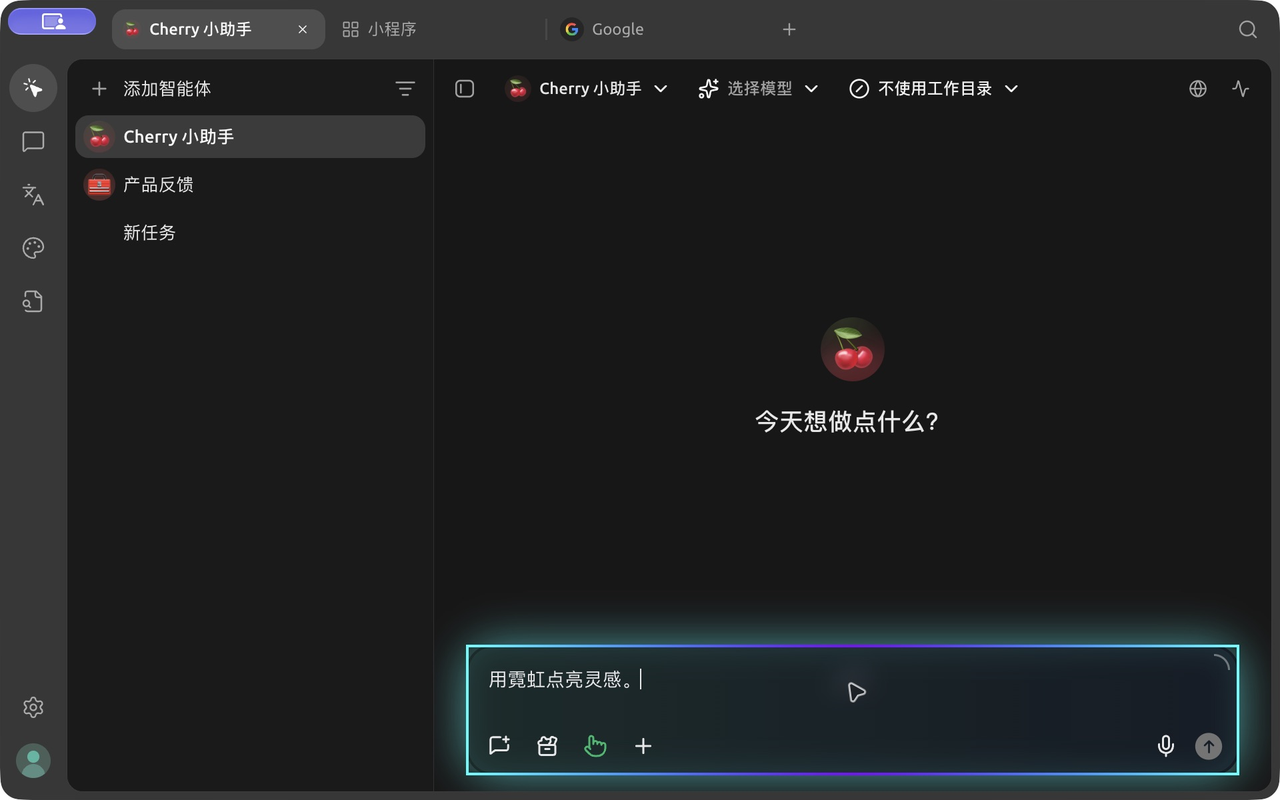
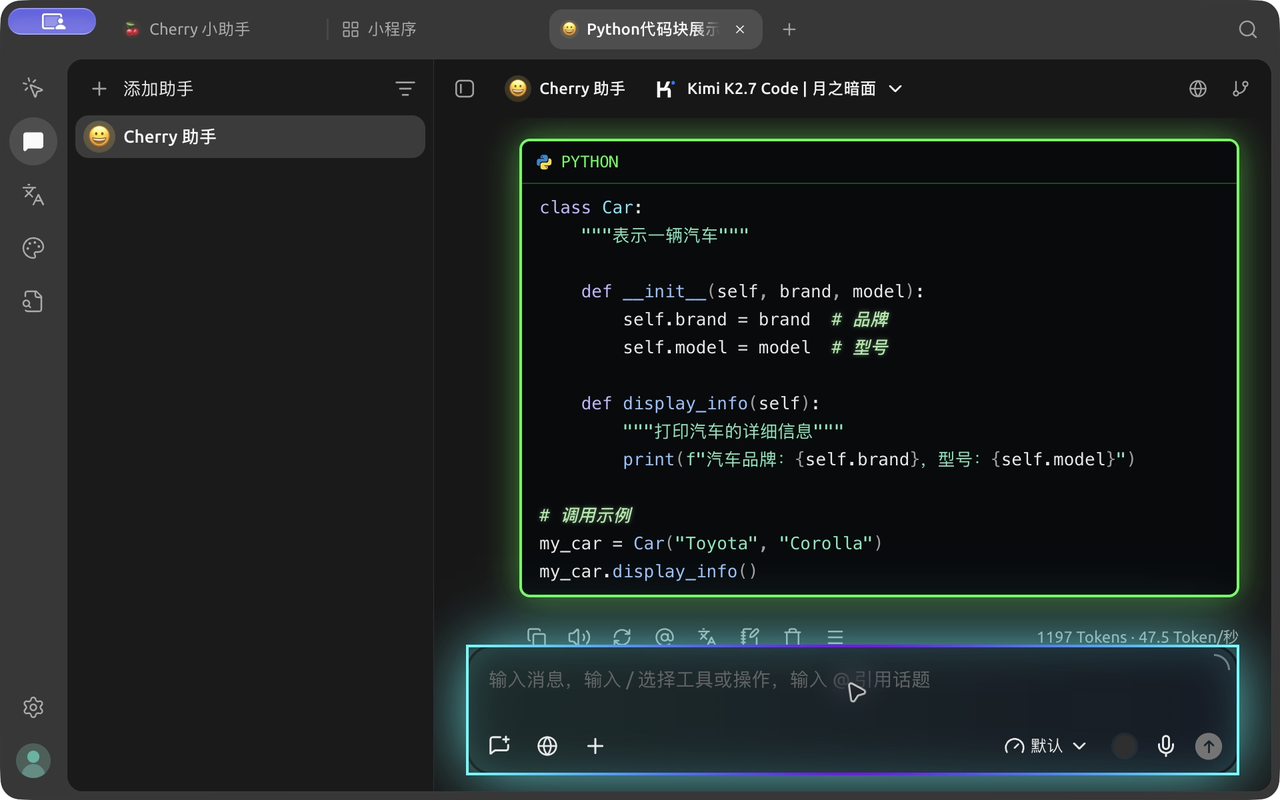
Adapt green terminal styling to Cherry Studio 2.1.10 and record live preview

diff --git a/cyberpunk-theme.css b/cyberpunk-theme.css
@@ -176,63 +176,58 @@ body[theme-mode=dark][os=windows] {
   --color-background-mute: var(--color-black-mute);
 }
 
-/* Code block containers */
-[class*="code-block"], 
+/* Match complete class names: 2.1.10 also has code-block-header and highlights. */
+.code-block,
 .code-container,
-[class*="highlight"] {
+.highlight {
   border: 2px solid var(--cyber-green) !important;
   border-radius: 8px !important;
-  box-shadow: 
-    0 0 20px rgba(0 255 65 / 0.3),
-    inset 0 0 20px rgba(0 255 65 / 0.05) !important;
-  backdrop-filter: blur(10px) !important;
-  position: relative !important;
-  padding: 0 !important;
-  margin: 16px 0 !important;
-  overflow: visible !important;
-  background: transparent !important;
+  background: #080a0d !important;
+  box-shadow: 0 0 20px rgba(0 255 65 / 0.3);
+  animation: code-glow 3s ease-in-out infinite alternate;
 }
 
-/* Code block inner content */
-[class*="code-block"] pre,
-[class*="code-block"] code,
+/* New code viewer uses virtualized divs; preserve its sizing and scrolling. */
+.code-block .code-viewer,
+.code-block .code-block-header {
+  background: #080a0d !important;
+}
+
+.code-block .code-block-header {
+  color: var(--cyber-green) !important;
+  border-bottom: 1px solid rgba(0 255 65 / 0.25) !important;
+}
+
+/* Traditional pre/code renderers: style the surface, not every syntax token. */
+.code-block pre,
 .code-container pre,
-.code-container code,
-[class*="highlight"] pre,
-[class*="highlight"] code,
-[class*="code-block"] [class*="language-"],
-[class*="code-block"] [class*="hljs"],
-.code-container [class*="language-"],
-.code-container [class*="hljs"],
-[class*="highlight"] [class*="language-"],
-[class*="highlight"] [class*="hljs"] {
-  background: linear-gradient(135deg, 
-    rgba(10 10 15 / 0.95) 0%, 
-    rgba(5 5 8 / 0.98) 100%) !important;
+.highlight pre {
+  background: #080a0d !important;
   border: none !important;
-  border-radius: 6px !important;
   box-shadow: none !important;
-  margin: 0 !important;
-  padding: 16px !important;
-  width: 100% !important;
-  box-sizing: border-box !important;
-  position: relative !important;
-  z-index: 1 !important;
+}
+
+.code-block code,
+.code-container code,
+.highlight code {
+  background: transparent !important;
+  border: none !important;
+  padding: 0 !important;
 }
 
 /* Code block action buttons (copy, download, etc.) */
-[class*="code-block"] [class*="copy"],
-[class*="code-block"] [class*="download"],
-[class*="code-block"] [class*="action"],
-[class*="code-block"] button,
+.code-block [class*="copy"],
+.code-block [class*="download"],
+.code-block [class*="action"],
+.code-block button,
 .code-container [class*="copy"],
 .code-container [class*="download"],
 .code-container [class*="action"],
 .code-container button,
-[class*="highlight"] [class*="copy"],
-[class*="highlight"] [class*="download"],
-[class*="highlight"] [class*="action"],
-[class*="highlight"] button {
+.highlight [class*="copy"],
+.highlight [class*="download"],
+.highlight [class*="action"],
+.highlight button {
   position: relative !important;
   z-index: 10 !important;
   background: rgba(0 255 255 / 0.1) !important;
@@ -242,25 +237,26 @@ body[theme-mode=dark][os=windows] {
   transition: all 0.3s ease !important;
 }
 
-[class*="code-block"] [class*="copy"]:hover,
-[class*="code-block"] [class*="download"]:hover,
-[class*="code-block"] [class*="action"]:hover,
-[class*="code-block"] button:hover,
+.code-block [class*="copy"]:hover,
+.code-block [class*="download"]:hover,
+.code-block [class*="action"]:hover,
+.code-block button:hover,
 .code-container [class*="copy"]:hover,
 .code-container [class*="download"]:hover,
 .code-container [class*="action"]:hover,
 .code-container button:hover,
-[class*="highlight"] [class*="copy"]:hover,
-[class*="highlight"] [class*="download"]:hover,
-[class*="highlight"] [class*="action"]:hover,
-[class*="highlight"] button:hover {
+.highlight [class*="copy"]:hover,
+.highlight [class*="download"]:hover,
+.highlight [class*="action"]:hover,
+.highlight button:hover {
   background: rgba(0 255 255 / 0.2) !important;
   box-shadow: 0 0 10px rgba(0 255 255 / 0.5) !important;
 }
 
 /* Code comments with green glow */
 .token.comment,
-[class*="hljs-comment"] {
+.hljs-comment,
+.code-block .code-syntax-comment {
   color: rgba(180 255 180 / 0.9) !important;
   font-style: italic !important;
   text-shadow: 0 0 3px rgba(180 255 180 / 0.4) !important;
@@ -274,12 +270,8 @@ body[theme-mode=dark][os=windows] {
     rgba(138 43 226 / 0.25) 100%) !important;
 }
 
-/* Inline code and syntax highlighting */
-code:not([class*="code-block"] code):not(.code-container code):not([class*="highlight"] code), 
-.token.keyword,
-.token.function,
-.hljs-keyword,
-.hljs-function {
+/* Inline code keeps its badge styling without changing syntax-token spacing. */
+code:not(pre code):not(.code-block code):not(.code-container code):not(.highlight code) {
   background: rgba(30 40 60 / 0.6) !important;
   color: rgba(100 200 255 / 0.95) !important;
   padding: 2px 6px !important;
@@ -287,18 +279,11 @@ code:not([class*="code-block"] code):not(.code-container code):not([class*="high
   border: 1px solid rgba(100 200 255 / 0.2) !important;
 }
 
-/* Code block glow effect */
-[class*="code-block"]::before,
-.code-container::before,
-[class*="highlight"]::before {
-  content: "";
-  position: absolute;
-  top: -2px; left: -2px; right: -2px; bottom: -2px;
-  background: linear-gradient(45deg, var(--cyber-green), transparent, var(--cyber-green));
-  border-radius: 8px;
-  z-index: -1;
-  animation: code-glow 3s ease-in-out infinite alternate;
-  pointer-events: none;
+.token.keyword,
+.token.function,
+.hljs-keyword,
+.hljs-function {
+  color: rgba(100 200 255 / 0.95) !important;
 }
 
 /* Button hover effects */
@@ -337,8 +322,8 @@ button:hover,
 }
 
 @keyframes code-glow {
-  0% { opacity: 0.5; }
-  100% { opacity: 0.8; }
+  0% { box-shadow: 0 0 12px rgba(0 255 65 / 0.25); }
+  100% { box-shadow: 0 0 26px rgba(0 255 65 / 0.5); }
 }
 
 @keyframes neon-flicker {

diff --git a/README.md b/README.md
@@ -19,7 +19,7 @@
 
 Currently verified: **Cherry Studio 2.1.10 · macOS · dark mode**.
 
-Checked in the installed app: the main view, neon input focus animation, mini-app tabs, and two-app split view. Windows, Linux, and other versions have not been tested on-device. Component styling may change with Cherry Studio updates.
+Checked in the installed app: the main view, neon input focus animation, a Python code block returned by a live model (including syntax highlighting and copy), mini-app tabs, and two-app split view. Windows, Linux, and other versions have not been tested on-device. Component styling may change with Cherry Studio updates.
 
 Legacy compatibility is outside the current maintenance scope. The historical mini-app transparency report ([issue #1](https://github.com/ooRussell63/CherryStudio-CyberPunk/issues/1)) is not backported or marked as fixed by this update.
 
@@ -27,9 +27,9 @@ Legacy compatibility is outside the current maintenance scope. The historical mi
 
 Recorded in **Cherry Studio 2.1.10 on macOS**, using this repository's CSS.
 
-**Input focus and neon animation** (the demo text was not sent)
+**Green terminal code block and neon input animation** (a real model response)
 
-![Cherry Studio 2.1.10 neon input animation](screenshots/v2.1.10-neon.gif)
+![Cherry Studio 2.1.10 green terminal and neon input animation](screenshots/v2.1.10-neon.gif)
 
 **Mini-app tabs and split view**
 

diff --git a/README_CN.md b/README_CN.md
@@ -19,7 +19,7 @@
 
 当前验证版本：**Cherry Studio 2.1.10 · macOS · 深色模式**。
 
-已在实际客户端检查主界面、输入框霓虹动画、小程序标签页及双小程序分屏。Windows、Linux 和其他版本尚未完成实机验证；部分组件样式可能随 Cherry Studio 更新而变化。
+已在实际客户端检查主界面、输入框霓虹动画、模型实际返回的 Python 代码块（含语法高亮与复制）、小程序标签页及双小程序分屏。Windows、Linux 和其他版本尚未完成实机验证；部分组件样式可能随 Cherry Studio 更新而变化。
 
 旧版兼容性不在当前维护范围。历史版本的小程序透明重叠问题（[issue #1](https://github.com/ooRussell63/CherryStudio-CyberPunk/issues/1)）本次不做回补，也不标记为已修复。
 
@@ -27,9 +27,9 @@
 
 以下素材均录制自 **macOS 上的 Cherry Studio 2.1.10**，使用本仓库 CSS。
 
-**输入框聚焦与霓虹动画**（演示文字未发送）
+**绿色终端代码块与输入框霓虹动画**（真实模型回复）
 
-![Cherry Studio 2.1.10 输入框霓虹动画](screenshots/v2.1.10-neon.gif)
+![Cherry Studio 2.1.10 绿色终端与输入框霓虹动画](screenshots/v2.1.10-neon.gif)
 
 **小程序标签页与分屏**
 
